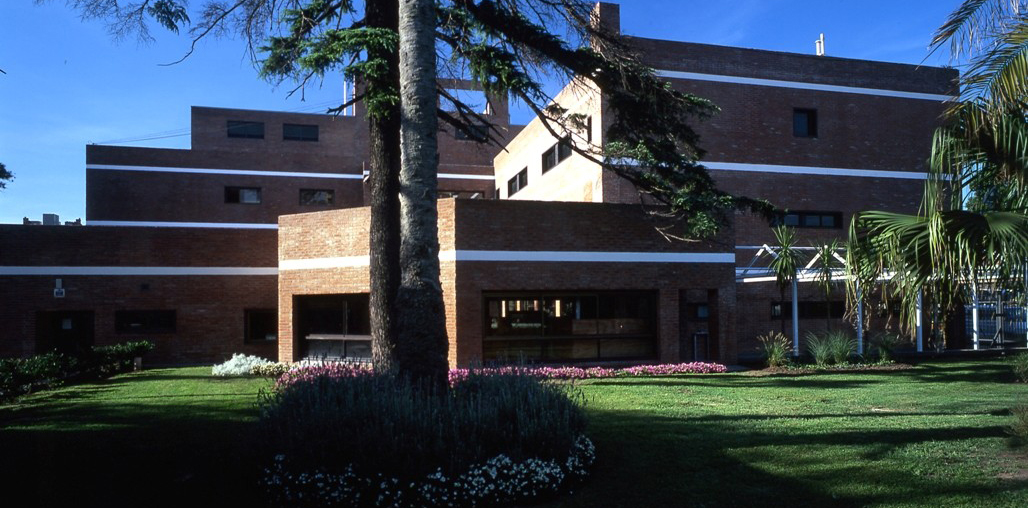
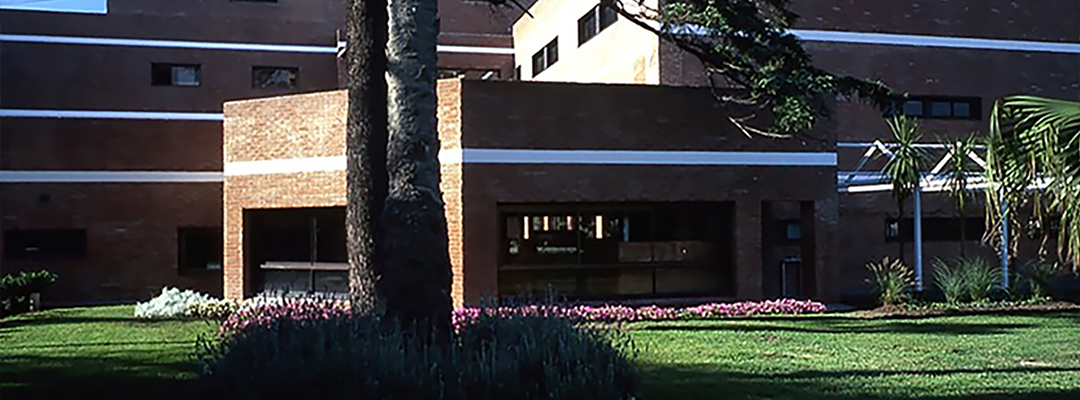
Hero animado + pequeños cambios header y footer + display flex en algunas cosas

diff --git a/index.html b/index.html
@@ -10,93 +10,120 @@
     <link rel="stylesheet" type="text/css" href="estilos.css">
     <link rel="preconnect" href="https://fonts.googleapis.com">
     <link rel="preconnect" href="https://fonts.gstatic.com" crossorigin>
-    <link href="https://fonts.googleapis.com/css2?family=Inter:ital,opsz,wght@0,14..32,100..900;1,14..32,100..900&display=swap" rel="stylesheet">
+    <link
+        href="https://fonts.googleapis.com/css2?family=Inter:ital,opsz,wght@0,14..32,100..900;1,14..32,100..900&display=swap"
+        rel="stylesheet">
 </head>
 
 <body>
     <header>
-        <a href="index.html">
-            <img id="sanatorio-juncal-logo" src="svg/logo-sanatorio-juncal.svg" alt="Sanatorio Juncal Logotipo"
-                width="356" height="95">
-        </a>
-        <div class="turno-online">
-            <h5>SOLICITAR TURNOS ONLINE</h5>
-            <p>TURNOS 4239-8008 - CONMUTADOR 4239-8000 </p>
-        </div>
+        <section id="header-turnos">
+            <a href="index.html">
+                <img id="sanatorio-juncal-logo" src="svg/logo-sanatorio-juncal.svg" alt="Sanatorio Juncal Logotipo"
+                    width="356" height="95">
+            </a>
+            <article class="turno-online">
+                <h5>SOLICITAR TURNOS ONLINE</h5>
+                <p>TURNOS 4239-8008 - CONMUTADOR 4239-8000 </p>
+            </article>
+        </section>
         <nav>
-            <a href="">Institucional</a>
-            <a href="">Pacientes</a>
-            <a href="">Solicitudes</a>
-            <a href="">Contacto</a>
+            <a href="institucional.html">Institucional</a>
+            <a href="#">Pacientes</a>
+            <a href="#">Solicitudes</a>
+            <a href="contacto.html">Contacto</a>
         </nav>
     </header>
+
     <main>
         <section id="hero">
-            <article>
-                <a href="#">
-                    <img src="img/juncal-hero-1.jpg" width="1950" height="950"
-                        alt="cartilla profesionales solicitar turno">
-                    <h2>Conocé nuestra cartilla de profesionales</h2>
-                    <p>y solicitá tu turno</p>
-                </a>
-            </article>
-            <article>
-                <a href="#">
-                    <img src="img/juncal-hero-2.jpg" width="1950" height="950" alt="ubicación Sanatorio Juncal">
-                    <h2>Conocé donde estamos ubicados</h2>
-                    <p>y cómo llegar</p>
-                </a>
-            </article>
-            <article>
-                <a href="#">
-                    <img src="img/juncal-hero-3.jpg" width="1950" height="950" alt="instalaciones y servicios">
-                    <h2>Conocé nuestras instalaciones</h2>
-                    <p>y nuestros servicios</p>
-                </a>
-            </article>
-
+            <ul>
+                <li>
+                    <a href="#">
+                        <img src="img/juncal-hero-1.jpg" width="1028" height="508"
+                            alt="cartilla profesionales solicitar turno">
+                        <section class="texto-hero">
+                            <h2>Conocé nuestra cartilla de profesionales</h2>
+                            <p>y solicitá tu turno</p>
+                        </section>
+                    </a>
+                </li>
+                <li>
+                    <a href="#">
+                        <img src="img/juncal-hero-2.jpg" width="1028" height="508" alt="ubicación Sanatorio Juncal">
+                        <section class="texto-hero">
+                            <h2>Conocé donde estamos ubicados</h2>
+                            <p>y cómo llegar</p>
+                        </section>
+                    </a>
+                </li>
+                <li>
+                    <a href="#">
+                        <img src="img/juncal-hero-3.jpg" width="1028" height="508" alt="instalaciones y servicios">
+                        <section class="texto-hero">
+                            <h2>Conocé nuestras instalaciones</h2>
+                            <p>y nuestros servicios</p>
+                        </section>
+                    </a>
+                </li>
+            </ul>
         </section>
 
-        <section id="especiaidades-medicas">
-            <h1>ESPECIALIDADES MÉDICAS</h1>
+        <h1>ESPECIALIDADES MÉDICAS</h1>
+            <section id="especialidades-medicas">
+                <article class="cardiologia-pediatrica">
+                    <img src="img/cardiologia-pediatrica-img.jpg" alt="Foto Cardiologia Pediatrica" width="470"
+                        height="700">
+                    <div id="texto-especialidades">
+                        <h2>Cardiologia Pediatrica</h2>
+                    <p>Hoy en día es posible corregir la mayoría de las cardiopatías congénitas durante los primeros
+                        meses
+                        de vida, lo que permite que...</p>
+                    </div>
+                </article>
 
-            <article class="cardiologia-pediatrica">
-                <img src="img/cardiologia-pediatrica-img.jpg" alt="Foto Cardiologia Pediatrica" width="470"
-                    height="700">
-                <h2>Cardiologia Pediatrica</h2>
-                <p>Hoy en día es posible corregir la mayoría de las cardiopatías congénitas durante los primeros meses
-                    de vida, lo que permite que...</p>
-            </article>
+                <article class="radiologia">
+                    <img src="img/radiologia-img.jpg" alt="Foto Radiologia" width="470" height="700">
+                     <div id="texto-especialidades">
+                    <h2>Radiologia</h2>
+                    <p>El Servicio de Radiología brinda soporte a casi todas las áreas médicas de la institución, con
+                        especial énfasis... </p>
+                        </div>
+                </article>
 
-            <article class="radiologia">
-                <img src="img/radiologia-img.jpg" alt="Foto Radiologia" width="470" height="700">
-                <h2>Radiologia</h2>
-                <p>El Servicio de Radiología brinda soporte a casi todas las áreas médicas de la institución, con
-                    especial énfasis... </p>
-            </article>
-
-            <article class="neurologia">
-                <img src="img/neurologia-img.jpg" alt="foto de neurologia" width="470" height="700">
-                <h2>Neurologia</h2>
-                <p>El Servicio de Neurología está conformado por neurólogos de amplia trayectoria y reconocida
-                    experiencia, dedicados al... </p>
-            </article>
+                <article class="neurologia">
+                    <img src="img/neurologia-img.jpg" alt="foto de neurologia" width="470" height="700">
+                    <div id="texto-especialidades">
+                    <h2>Neurologia</h2>
+                    <p>El Servicio de Neurología está conformado por neurólogos de amplia trayectoria y reconocida
+                        experiencia, dedicados al... </p>
+                    </div>
+                </article>
 
                 <article class="cardiologia">
-                        <img src="img/cardiologia-img.jpg" alt="Foto Cardiologia" width="470" height="700">
-                        <h2>Cardiologia</h2>
-                        <p>El Servicio de Cardiología está especializado en la prevención, diagnóstico y tratamiento de las enfermedades cardiovasculares en adultos...</p>
-                </article>
+                    <img src="img/cardiologia-img.jpg" alt="Foto Cardiologia" width="470" height="700">
+                    <div id="texto-especialidades">
+                    <h2>Cardiologia</h2>
+                    <p>El Servicio de Cardiología está especializado en la prevención, diagnóstico y tratamiento de las
+                        enfermedades cardiovasculares en adultos...</p>
+                        </div>
+                    </article>
             </section>
-            <section id="noticias">
-                <img src="img/noticias-endoscopia.jpg" alt="Foto de endoscopio" width="710" height="475">
-                <article class="texto-noticias">
-                    <h3>Noticias</h3>
-                    <p>En Sanatorio Juncal incorporamos nuevos equipos de video-endoscopia de última generación, con magnificación x100 en alta definición (HD) y tecnología FICE.
-                    Estos avances permiten la detección temprana de  lesiones antes de que se vuelvan cancerígenas, ofreciendo estudios de la más alta calidad médico-técnica.
-                    Además, los procedimientos se realizan en un quirófano de última generación, especialmente diseñado para este tipo de estudios, junto a salas de recuperación privadas que garantizan el máximo confort para los pacientes.</p>
-                </article>
-            </section>
+        </section>
+
+        <section id="noticias">
+            <img src="img/noticias-endoscopia.jpg" alt="Foto de endoscopio" width="710" height="475">
+            <article class="texto-noticias">
+                <h3>Noticias</h3>
+                <p>En Sanatorio Juncal incorporamos nuevos equipos de video-endoscopia de última generación, con
+                    magnificación x100 en alta definición (HD) y tecnología FICE.
+                    Estos avances permiten la detección temprana de lesiones antes de que se vuelvan cancerígenas,
+                    ofreciendo estudios de la más alta calidad médico-técnica.
+                    Además, los procedimientos se realizan en un quirófano de última generación, especialmente diseñado
+                    para este tipo de estudios, junto a salas de recuperación privadas que garantizan el máximo confort
+                    para los pacientes.</p>
+            </article>
+        </section>
     </main>
 
     <footer>
@@ -162,9 +189,9 @@
                     alt="foto de youtube"></a>
         </div>
         <div class="contactos">
-                <h6>Contactos</h6>
-                <p>telefono y horarios</p>
-                <p>Lunes a Viernes - 08:00hs a 19:00hs</p>
-                <p>WhatsApp - 11234353 / 4239-8000</p>
+            <h6>Contactos</h6>
+            <p>telefono y horarios</p>
+            <p>Lunes a Viernes - 08:00hs a 19:00hs</p>
+            <p>WhatsApp - 11234353 / 4239-8000</p>
         </div>
     </footer>

diff --git a/estilos.css b/estilos.css
@@ -1,13 +1,22 @@
 @charset "UTF-8";
+
 body {
     background-color: #f1f1f1;
+    max-height: 100vh;
 }
 
 /* aplicaciones de fuentes */
 
 * {
+    margin: 0;
+    padding: 0;
+    box-sizing: border-box;
     font-family: 'Inter', sans-serif;
     font-weight: 400;
+}
+
+html, body {
+    overflow-x: hidden;
 }
 
 h2 {
@@ -53,10 +62,10 @@ p {
 /* turno online boton */
 
 .turno-online {
-display: flex;
-flex-direction: column;
-align-items: flex-end;
-margin: 20px 100px 0 0;
+    display: flex;
+    flex-direction: column;
+    align-items: flex-end;
+    margin: 16px 16px 0 0;
 }
 
 .turno-online p {
@@ -77,15 +86,135 @@ margin: 20px 100px 0 0;
 
 /* header */
 
+#header-turnos {
+    display: flex;
+    align-items: center;
+    justify-content: space-between;
+
+}
+
 nav {
+    width: 100%;
+    padding-right: 80px;
     display: flex;
     justify-content: flex-end;
     align-items: center;
     gap: 100px;
-    margin: 40px 100px 0px 0;
+    margin: 16px 100px 0px 0;
+    background-color: #319F5A;
 }
 
+/* main */
+
+#hero {
+    width: 100%;
+    margin: 16px auto;
+    overflow: hidden;
+    position: relative;
+    box-sizing: border-box;
+}
+
+#hero ul {
+    display: flex;
+    padding: 0;
+    margin: 0;
+    list-style: none;
+    animation: slide 21s infinite ease-in-out;
+}
+
+#hero li {
+    width: 100%;
+    flex-shrink: 0;
+}
+
+#hero img {
+    width: 100%;
+    height: auto;
+    display: block;
+}
+
+@keyframes slide {
+    0% {
+        transform: translateX(0%);
+    }
+
+    23% {
+        transform: translateX(0%);
+    }
+
+    33% {
+        transform: translateX(-100%);
+    }
+
+    56% {
+        transform: translateX(-100%);
+    }
+
+    66% {
+        transform: translateX(-200%);
+    }
+
+    90% {
+        transform: translateX(-200%);
+    }
+
+    100% {
+        transform: translateX(0%);
+    }
+}
+
+.texto-hero {
+    position: absolute;
+    bottom: 0;
+    width: 100%;
+    height: 100%;
+    display: flex;
+    align-items: flex-start;
+    justify-content: flex-end;
+    flex-direction: column;
+    padding: 65px 51px;
+    box-sizing: border-box; 
+
+     background: linear-gradient(
+        to top,
+        rgba(0, 0, 0, 0.7) 0%,
+        rgba(0, 0, 0, 0.4) 40%,
+        rgba(0, 0, 0, 0) 80%)
+    }
+
+
+.texto-hero h2, .texto-hero p {
+    color: white;
+}
+
+#especialidades-medicas {
+    display: flex;
+}
+
+#texto-expecialidades {
+    background: rgba(59, 44, 22, 0.5);
+    width: 100%;
+    height: 100%;
+    border-radius: 32px;
+    position: absolute;
+    top: 0;
+    left: 0;
+    display: flex;
+    align-items: center;
+    flex-direction: column;
+    justify-content: center;
+    opacity: 1;
+    transition: opacity 0.6s ease;
+
+}
+
+
 /* footer */
+
+footer {
+    background-color: #40A365;
+    display: flex;
+}
 
 footer p {
     font-weight: 400;
